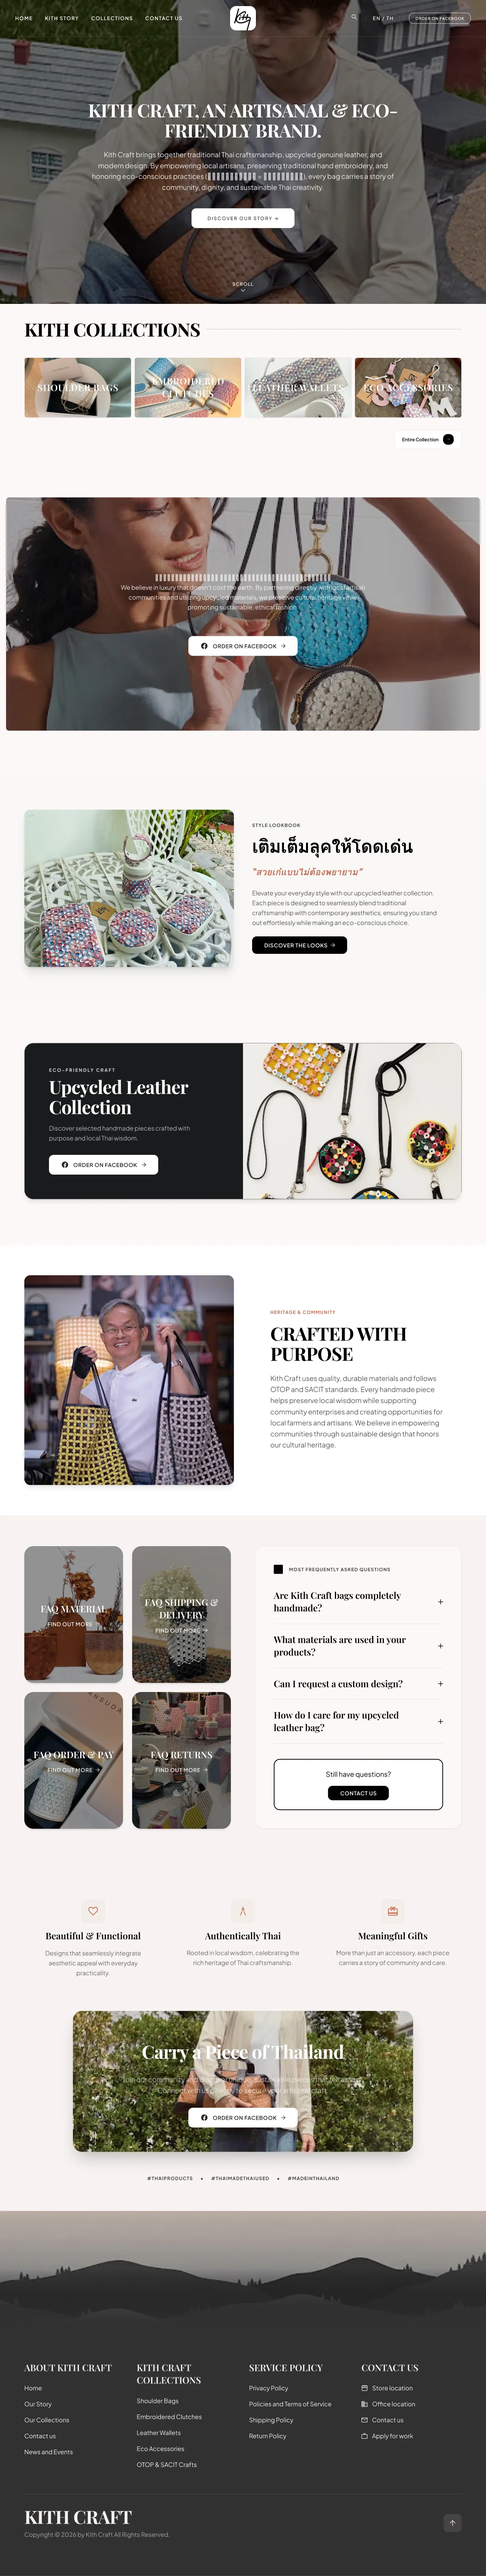
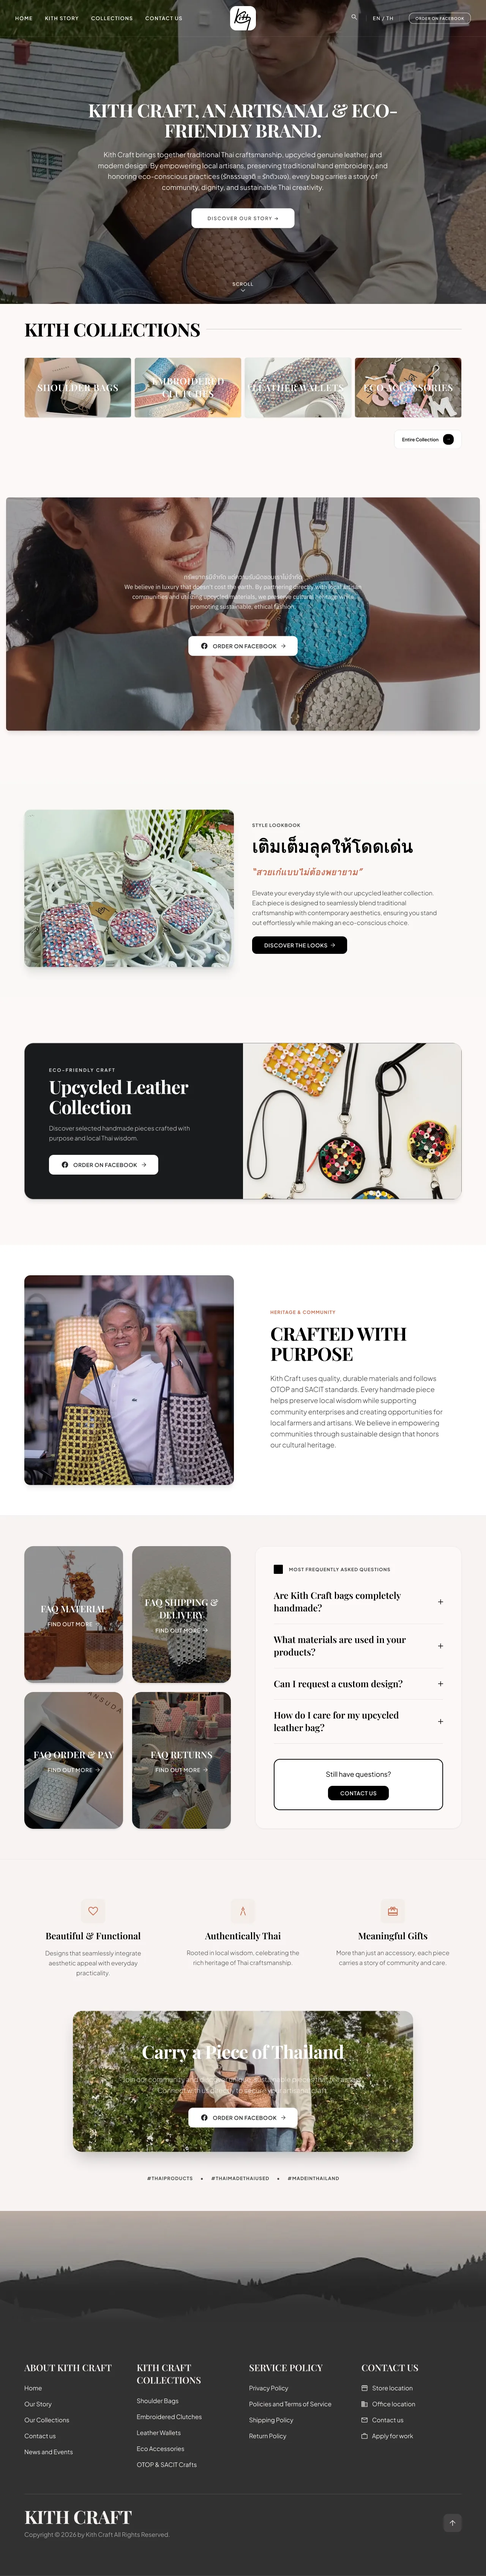
Complete Amara and Kith Craft galleries, add section write-ups
Amara and Kith Craft each get their four full-length page exports,
finishing the gallery work across all eight case studies (33MB of PNG
down to 3.5MB of webp, originals moved to design-exports/).

Adds the Problem / Research / Wireframes / Design system / Outcome
write-ups for ReStyle, Wan Mai, Smart Shop, ScaleUp Solution and Too
Fast To Sleep, replacing the placeholders. The outcome section takes a
title override since these describe what the design achieves rather
than what I would change.

Corrects the Amara summary, which claimed a Facebook order flow "instead
of a traditional cart" — the Amara design has a cart in the header and
routes enquiries through LINE and a form. That claim describes Kith
Craft, which genuinely has no cart.

diff --git a/src/data/caseStudies.ts b/src/data/caseStudies.ts
@@ -190,35 +190,61 @@ export const caseStudies: CaseStudy[] = [
     }
   ),
 
-  build('kith-craft', {
-    title: 'Kith Craft',
-    subtitle: 'Upcycled leather and Thai craftsmanship',
-    year: '2026',
-    discipline: 'Brand · E-commerce web UI',
-    role: 'UI/UX design',
-    tools: ['Figma'],
-    summary:
-      'A responsive e-commerce web design for a modern sustainable brand. Focused on high-converting product pages, clean navigation, and compelling brand storytelling to position upcycled fashion as modern luxury.',
-    figmaEmbed: embed(
-      'https://www.figma.com/design/xi8MxJzV5APGDxR52x2kKc/Untitled?node-id=0-1'
-    ),
-    draft: false,
-  }),
+  build(
+    'kith-craft',
+    {
+      title: 'Kith Craft',
+      subtitle: 'Upcycled leather and Thai craftsmanship',
+      year: '2026',
+      discipline: 'Brand · E-commerce web UI',
+      role: 'UI/UX design — four final pages',
+      tools: ['Figma'],
+      summary:
+        'A responsive e-commerce web design for a modern sustainable brand. Focused on high-converting product pages, clean navigation, and compelling brand storytelling to position upcycled fashion as modern luxury.',
+      figmaEmbed: embed(
+        'https://www.figma.com/design/xi8MxJzV5APGDxR52x2kKc/Untitled?node-id=0-1'
+      ),
+      draft: false,
+    },
+    {
+      final: {
+        title: 'Four pages, full length',
+        body: [
+          'Each page below is the full-length export, scrollable in place. The structural decision is that there is no cart: an EN/TH toggle and a persistent "Order on Facebook" button sit in the header, and every section closes into that same button. The brand already sells through Facebook, so the site was designed to feed that flow rather than to replace it with a checkout nobody would maintain.',
+          'Home runs the brand line, the four collection tiles, a Thai-led style lookbook, the Upcycled Leather Collection panel, and a Crafted with Purpose section that leans on the OTOP and SACIT certifications as the trust signal a Thai buyer recognises. Our Collection is the filterable catalogue — five category chips, colourway swatches on each card, pagination across three pages.',
+          'Kith Story carries the heritage and community argument, and Contact Us splits into store location, office location, general contact and Apply for Work, which is the page acknowledging that an artisan collective recruits as much as it sells. Support content is handled as four FAQ tiles — material, shipping, order and pay, returns — so the questions that block a Facebook order get answered before the buyer has to ask.',
+        ],
+      },
+    }
+  ),
 
-  build('amara', {
-    title: 'Amara',
-    subtitle: 'Handwoven bags from recycled plastic, sold as modern luxury',
-    year: '2026',
-    discipline: 'Brand · E-commerce web UI',
-    role: 'UI/UX design',
-    tools: ['Figma'],
-    summary:
-      'Amara is a luxury e-commerce platform showcasing handcrafted bags made from recycled plastic. Featuring a bilingual (EN/TH) layout and a direct Facebook order flow instead of a traditional cart, the design bridges sustainability and modern elegance.',
-    figmaEmbed: embed(
-      'https://www.figma.com/design/xi8MxJzV5APGDxR52x2kKc/Untitled?node-id=0-1'
-    ),
-    draft: false,
-  }),
+  build(
+    'amara',
+    {
+      title: 'Amara',
+      subtitle: 'Handwoven bags from recycled plastic, sold as modern luxury',
+      year: '2026',
+      discipline: 'Brand · E-commerce web UI',
+      role: 'UI/UX design — four final pages',
+      tools: ['Figma'],
+      summary:
+        'A luxury e-commerce concept for handwoven bags made from 100% recycled plastic. A bilingual EN/TH layout treats the sustainability claim as the selling point rather than a disclaimer, and prices accessible luxury from 490 baht.',
+      figmaEmbed: embed(
+        'https://www.figma.com/design/xi8MxJzV5APGDxR52x2kKc/Untitled?node-id=0-1'
+      ),
+      draft: false,
+    },
+    {
+      final: {
+        title: 'Four pages, full length',
+        body: [
+          'Each page below is the full-length export, scrollable in place. The bilingual handling is the quiet decision across all four: Thai sits directly beneath the English as a second voice in the same block, never behind a toggle, so the eco claim and the price land in whichever language the reader trusts.',
+          'Home makes the argument in three claims — 100% recycled plastics, handmade Thai heritage, accessible luxury from 490 baht — laid out as an editorial collage rather than a feature list, so the material reads as a design choice instead of a compromise. Collection is the catalogue: a dark architectural hero, free-shipping and starting-price badges, then nine bags with colourway swatches and pagination.',
+          'AMARA Story is the manifesto page — Turning Plastic Waste into Timeless Thai Craftsmanship, the four core pillars, and the stockist row across Bangkok, Pattaya, Samui and Phuket. Contact keeps the channels a Thai buyer actually uses: phone, LINE Official and email as Direct Channels on one side, a typed inquiry form on the other.',
+        ],
+      },
+    }
+  ),
 
   build(
     'restyle',
@@ -237,6 +263,32 @@ export const caseStudies: CaseStudy[] = [
       draft: false,
     },
     {
+      problem: {
+        body: [
+          'Users struggle to visualize how upcycled clothing fits into their daily wardrobe, leading to low conversion rates for sustainable fashion items.',
+        ],
+      },
+      research: {
+        body: [
+          'Feedback showed buyers care deeply about garment origins and fabric details, but felt overwhelmed by long text descriptions.',
+        ],
+      },
+      wireframes: {
+        body: [
+          'Standardized layout components to put full-length imagery first, placing sustainability metrics directly below the main product view.',
+        ],
+      },
+      system: {
+        body: [
+          'Applied clean neutral tones with high-contrast typography to keep focus on garment textures and eco-credentials.',
+        ],
+      },
+      outcome: {
+        title: 'What the design achieves',
+        body: [
+          'Created a clear shopping flow that highlights fabric origins instantly, making sustainable choices feel simple and engaging.',
+        ],
+      },
       final: {
         title: 'Five pages, full length',
         body: [
@@ -265,6 +317,32 @@ export const caseStudies: CaseStudy[] = [
       draft: false,
     },
     {
+      problem: {
+        body: [
+          'The platform failed to tell the story of the individual artisans behind each product, making the store feel generic rather than craft-focused.',
+        ],
+      },
+      research: {
+        body: [
+          'Shoppers were significantly more likely to buy when they knew who made the item and saw direct impact proof.',
+        ],
+      },
+      wireframes: {
+        body: [
+          'Rebuilt card components to highlight artisan attributions (by <maker>) across shop grids and dedicated story pages.',
+        ],
+      },
+      system: {
+        body: [
+          'Warm earth-toned palette with organic serif headings to reflect hand-crafted authenticity.',
+        ],
+      },
+      outcome: {
+        title: 'What the design achieves',
+        body: [
+          'Increased artisan visibility on every product card, establishing a direct emotional link between buyers and makers.',
+        ],
+      },
       final: {
         title: 'Four pages, full length',
         body: [
@@ -293,6 +371,32 @@ export const caseStudies: CaseStudy[] = [
       draft: false,
     },
     {
+      problem: {
+        body: [
+          'Business owners found it difficult to pair physical in-store displays with digital product catalogs and instant payment options.',
+        ],
+      },
+      research: {
+        body: [
+          'Store managers wanted a friction-free way for customers to scan items in-store and pay on their phones without staff help.',
+        ],
+      },
+      wireframes: {
+        body: [
+          'Created a dual-purpose navigation layout featuring prominent QR code generation and quick-buy checkout steps.',
+        ],
+      },
+      system: {
+        body: [
+          'High-visibility primary colors and bold status badges designed for fast legibility on mobile screens in full daylight.',
+        ],
+      },
+      outcome: {
+        title: 'What the design achieves',
+        body: [
+          'Delivered a unified QR-to-checkout flow that syncs inventory and pricing across physical and digital storefronts.',
+        ],
+      },
       final: {
         title: 'Four marketing pages, and the thing being sold',
         body: [
@@ -323,6 +427,32 @@ export const caseStudies: CaseStudy[] = [
       draft: false,
     },
     {
+      problem: {
+        body: [
+          'Potential clients found service offerings confusing and abandoned the contact funnel before submitting project inquiries.',
+        ],
+      },
+      research: {
+        body: [
+          'Visitors dropped off because intake forms asked for too much technical detail upfront instead of focusing on project goals.',
+        ],
+      },
+      wireframes: {
+        body: [
+          'Restructured the site navigation around service categories and simplified the project intake into a quick 3-step form.',
+        ],
+      },
+      system: {
+        body: [
+          'Modern dark mode interface with subtle floating navigation capsules for quick section switching.',
+        ],
+      },
+      outcome: {
+        title: 'What the design achieves',
+        body: [
+          'Streamlined service navigation and intake, making it easier for potential clients to request accurate proposals quickly.',
+        ],
+      },
       final: {
         title: 'Four pages, full length',
         body: [
@@ -351,6 +481,32 @@ export const caseStudies: CaseStudy[] = [
       draft: false,
     },
     {
+      problem: {
+        body: [
+          'Customers could not easily check real-time seating availability or find quiet study spots across multiple cafe locations.',
+        ],
+      },
+      research: {
+        body: [
+          "Guests frequently arrived at full capacity because the website didn't show spatial zones or busy hours.",
+        ],
+      },
+      wireframes: {
+        body: [
+          'Designed an interactive space guide featuring six named seating zones and live room updates per location.',
+        ],
+      },
+      system: {
+        body: [
+          'Deep navy blues and soft warm lighting accents mirroring the late-night cafe environment.',
+        ],
+      },
+      outcome: {
+        title: 'What the design achieves',
+        body: [
+          'Allowed customers to preview specific seating zones and locations before visiting, reducing crowding at peak hours.',
+        ],
+      },
       final: {
         title: 'Four pages, full length',
         body: [
